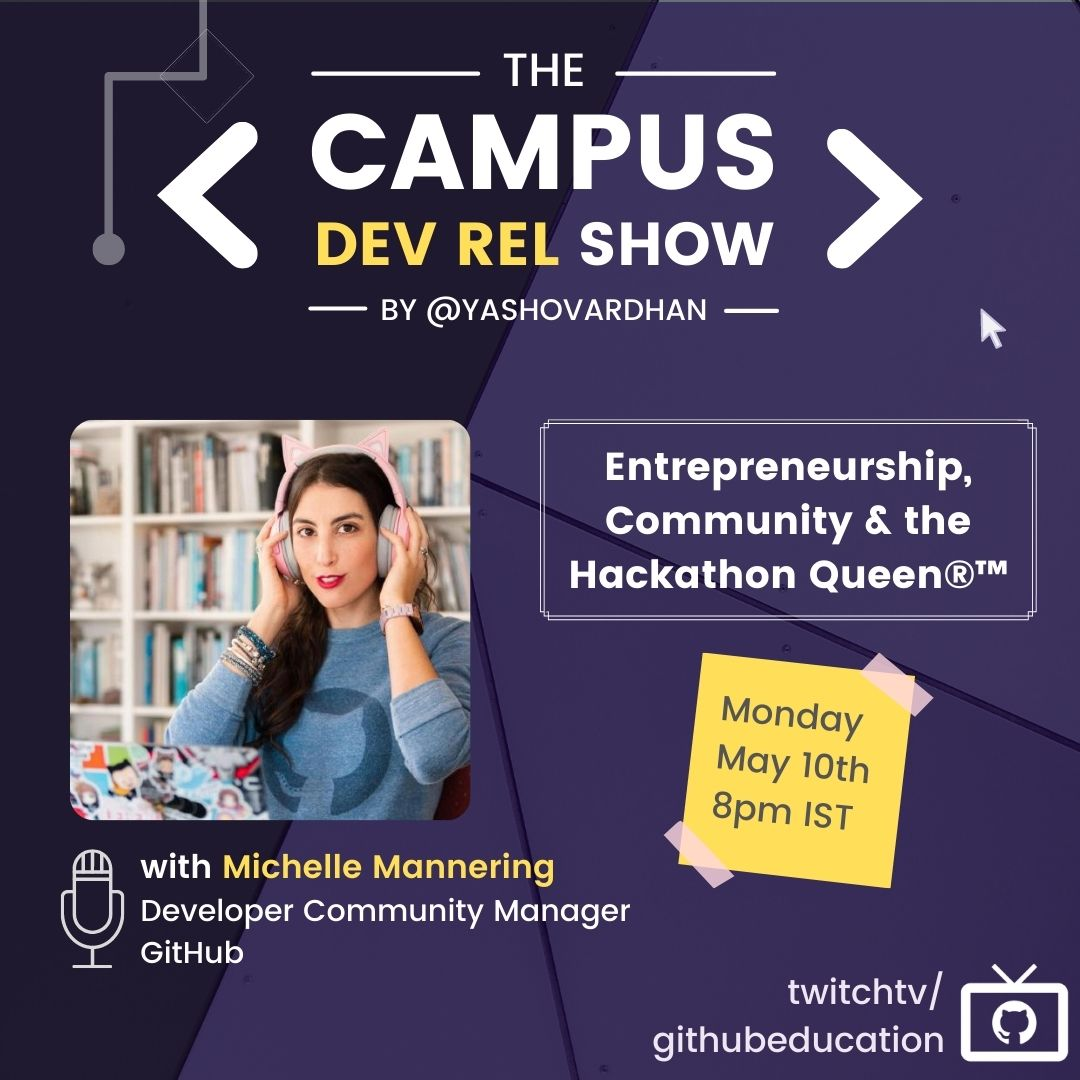
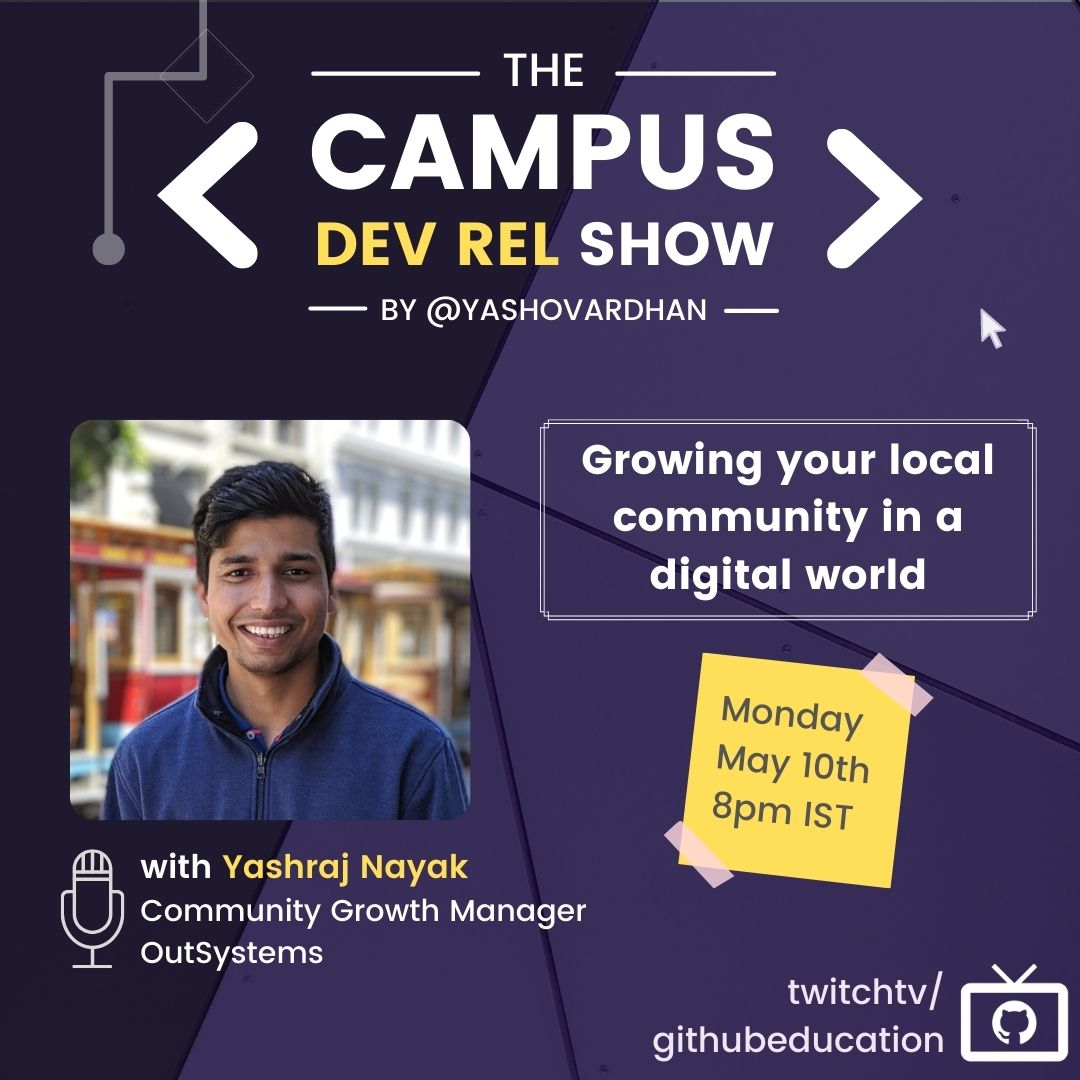
update cdrs7

Changed region(s): [[0.0611, 0.3667, 0.5806, 0.9167], [0.5194, 0.3972, 0.9472, 0.5806]]

diff --git a/index.html b/index.html
@@ -99,9 +99,9 @@
                   </a>
                 </article>
               </section>
-              <section style="margin-top: 3em;">
+              <!--<section style="margin-top: 3em;">
                 <a href="https://www.instagram.com/developerrelations/" class="button primary fit">Check out DevRel Carousels Instagram!</a>
-              </section>
+              </section>-->
               <section style="margin-top: 3em; margin-bottom: 0;">
                 <h1 style="margin-bottom: 0;">The Campus DevRel Show</h1>
                 <h2 style="font-weight: 100;">Powered by <a href="https://education.github.com">GitHub Education</a> 💖</h2>
@@ -180,7 +180,7 @@
                   </span>
                   <a href="https://www.twitch.tv/githubeducation">
                     <div class="content">
-                      <h2>"Entrepreneurship, Community & the Hackathon Queen®™" with Michelle Mannering</h2>
+                      <h2>"Growing your local community in a digital world" with Yashrakj Nayak</h2>
                       <p></p>
                     </div>
                   </a>
